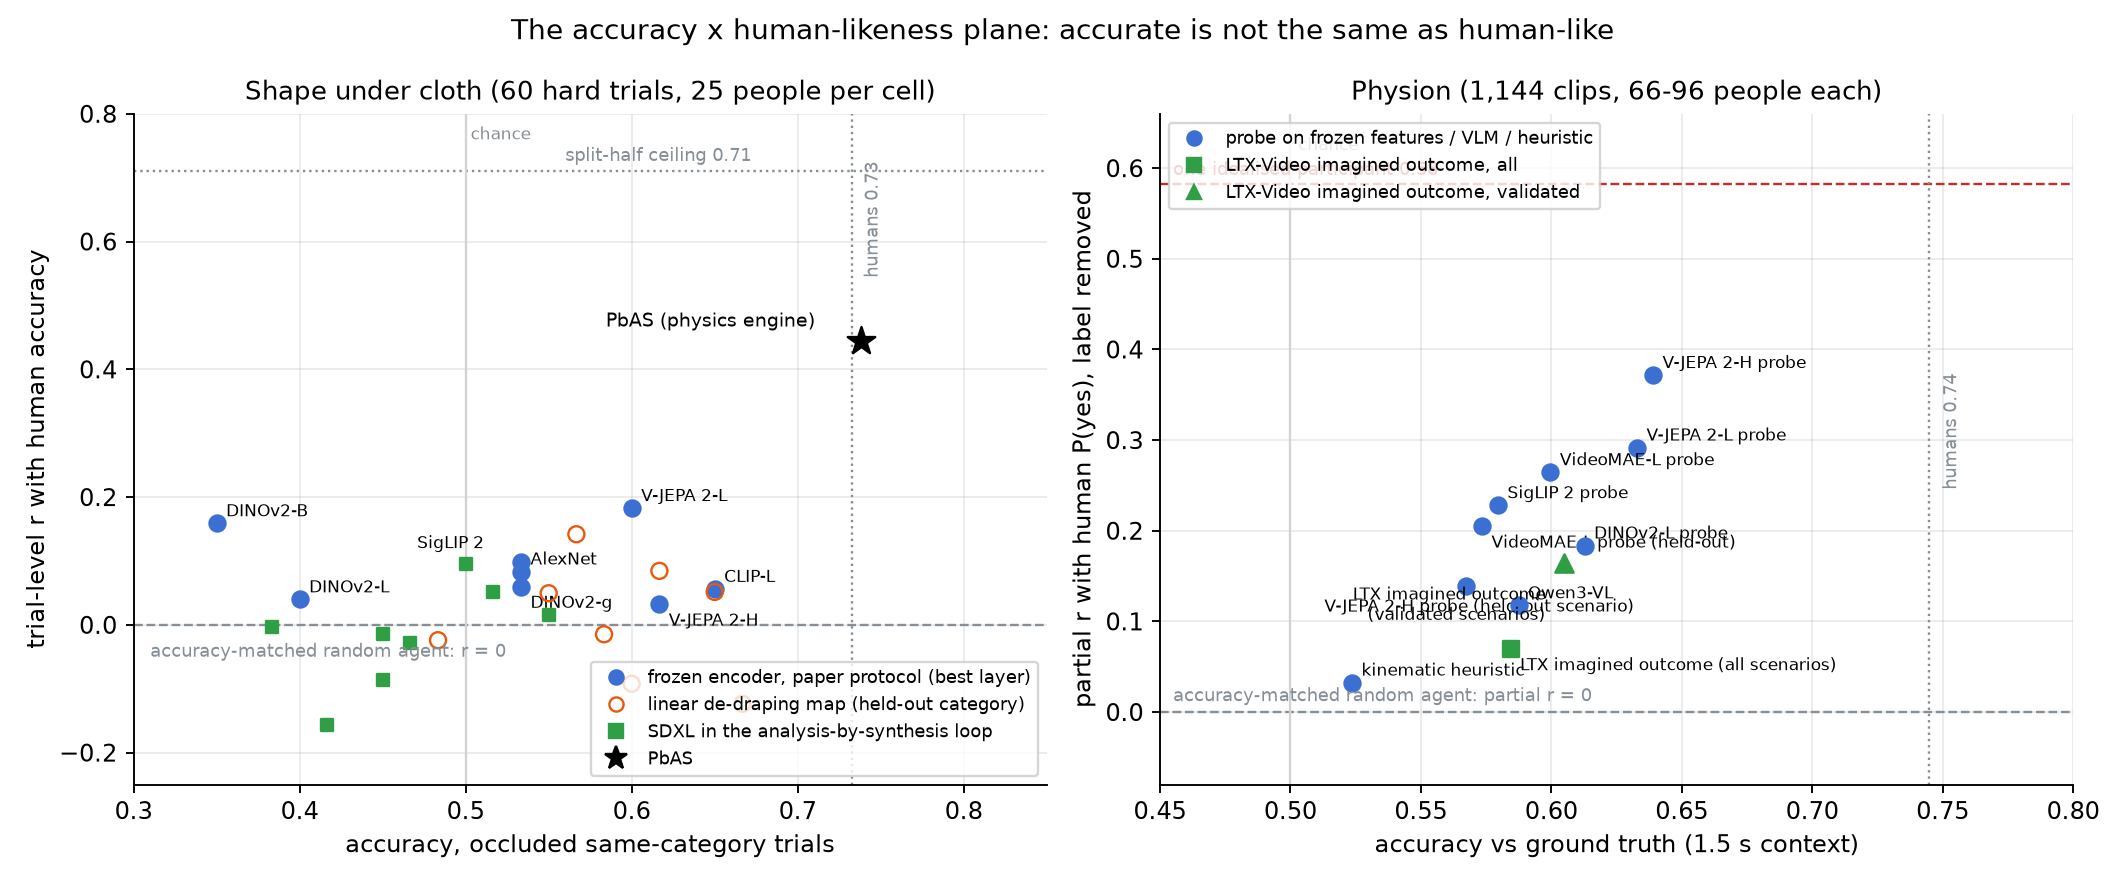
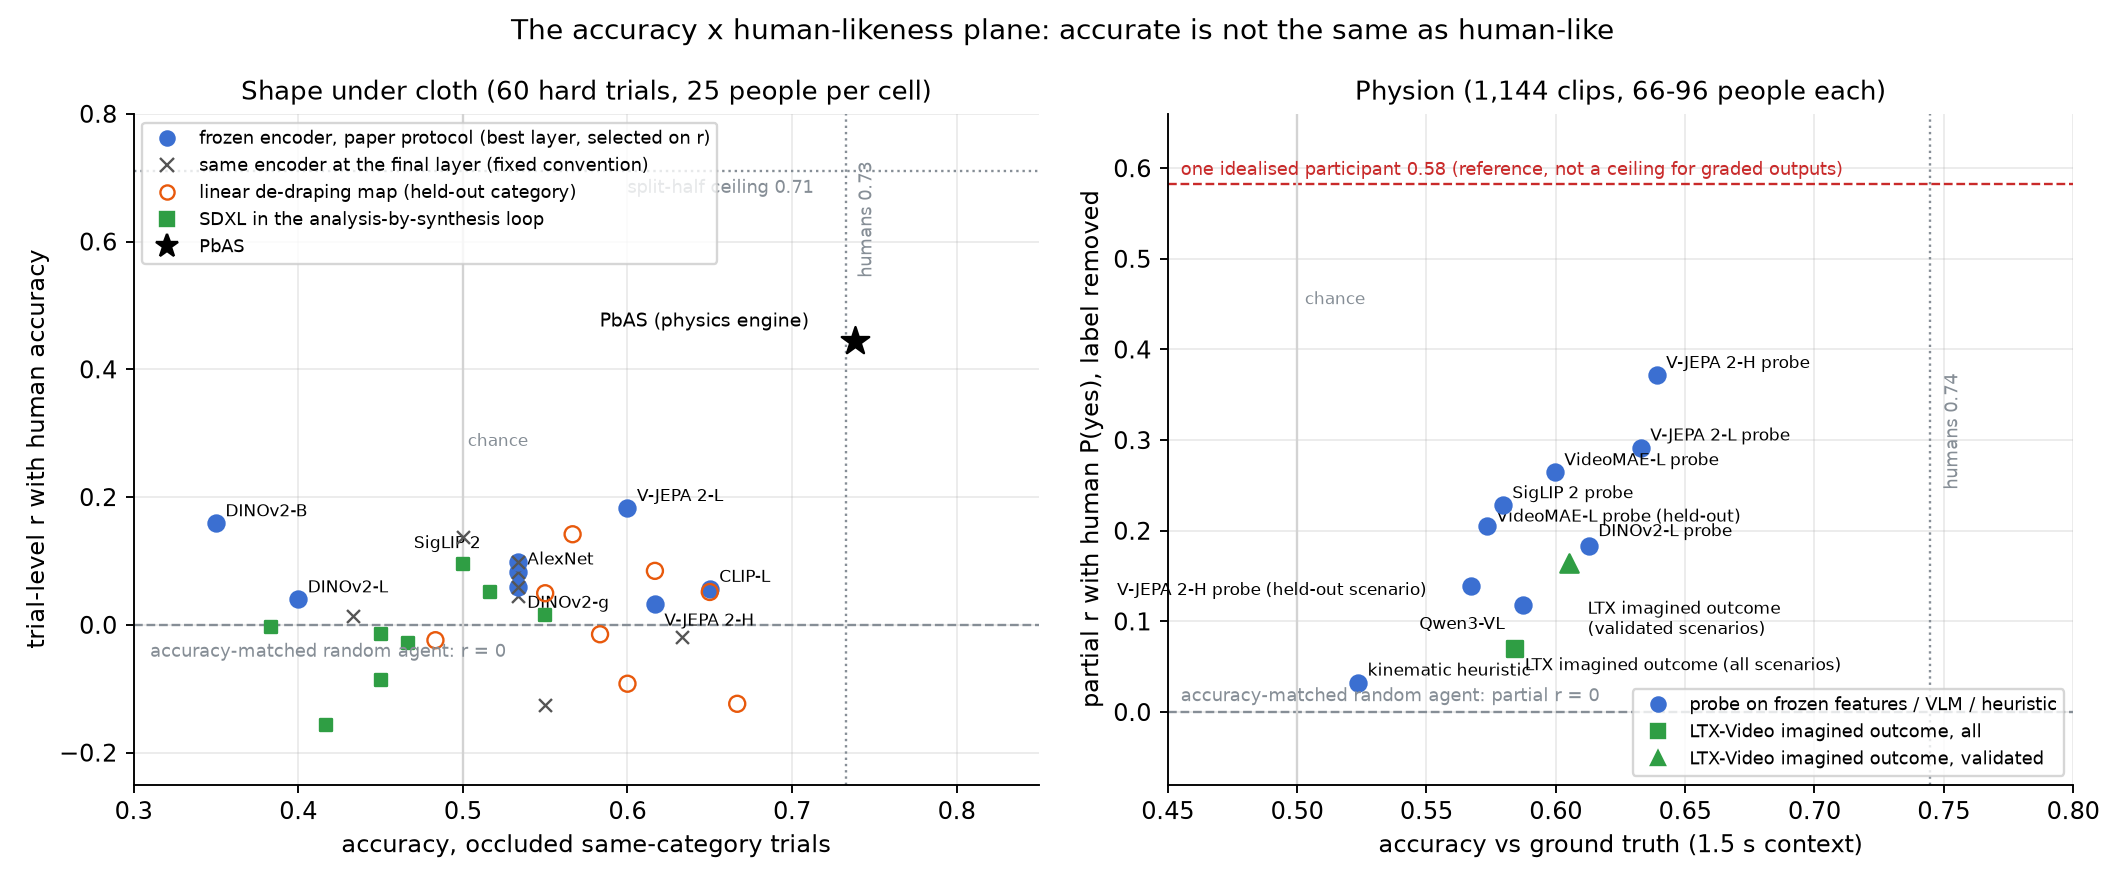
Plane figure: fixed-layer markers, participant reference labelled as reference

diff --git a/scripts/make_readme_figures.py b/scripts/make_readme_figures.py
@@ -138,31 +138,35 @@ def plane():
     p = json.load(open(RES / "physion" / "physion_results.json"))
     fig, (a, b) = plt.subplots(1, 2, figsize=(12.5, 5.2))
     off = {"dinog": (4, -9), "siglip2": (-44, 6), "vjepaH": (4, -9)}
+    fixed_layer = {"alexnet": "fc7", "vjepaL": "L24_grid", "vjepaH": "L32_grid"}
     for s_ in c["summary"]:
         m = s_["model"]; L = c["models"][m]["layers"][s_["best_layer"]]["occluded"]
         x, y = L["cells"]["same_category"], L["r_same"]["mean"]
         a.scatter(x, y, c=BLUE, s=46, zorder=3); a.annotate(NAMES[m], (x, y), fontsize=7, xytext=off.get(m, (4, 3)), textcoords="offset points")
+        F = c["models"][m]["layers"][fixed_layer.get(m, "final_pooled")]["occluded"]
+        a.scatter(F["cells"]["same_category"], F["r_same"]["mean"], marker="x", c="#555555", s=30, zorder=3, linewidths=1)
         dd = L["dedrape_loco"]; a.scatter(dd["cells"]["same_category"], dd["r_same"]["mean"], marker="o", facecolors="none", edgecolors=ORANGE, s=46, zorder=3)
         im = L["imagine_drape"]; a.scatter(im["cells"]["same_category"], im["r_same"]["mean"], marker="s", c=GREEN, s=30, zorder=3)
     pb = c["reference"]["PbAS"]["occluded"]["unlimited"]; hum = c["human"]["cells"]["occluded/unlimited"]["same_category"]
     ceil = c["human"]["ceiling"]["occluded"]["same_category"]["mean"]
     a.scatter(pb["cells"]["same_category"], pb["r_same"]["mean"], marker="*", c="k", s=150, zorder=4)
     a.annotate("PbAS (physics engine)", (pb["cells"]["same_category"], pb["r_same"]["mean"]), fontsize=8, xytext=(-108, 6), textcoords="offset points")
-    a.axhline(0, color=GREY, lw=1, ls="--"); a.axhline(ceil, color=GREY, lw=1, ls=":"); a.text(0.56, ceil + 0.015, f"split-half ceiling {ceil:.2f}", fontsize=7.5, color=GREY)
+    a.axhline(0, color=GREY, lw=1, ls="--"); a.axhline(ceil, color=GREY, lw=1, ls=":"); a.text(0.60, ceil - 0.035, f"split-half ceiling {ceil:.2f}", fontsize=7.5, color=GREY)
     a.axvline(hum, color=GREY, lw=1, ls=":"); a.text(hum + 0.007, 0.55, f"humans {hum:.2f}", fontsize=7.5, color=GREY, rotation=90)
-    a.axvline(0.5, color="lightgray", lw=1); a.text(0.503, 0.76, "chance", fontsize=7, color=GREY)
+    a.axvline(0.5, color="lightgray", lw=1); a.text(0.503, 0.28, "chance", fontsize=7, color=GREY)
     a.text(0.31, -0.05, "accuracy-matched random agent: r = 0", fontsize=7.5, color=GREY)
     a.set_xlim(0.3, 0.85); a.set_ylim(-0.25, 0.8); a.set_xlabel("accuracy, occluded same-category trials"); a.set_ylabel("trial-level r with human accuracy")
     a.set_title("Shape under cloth (60 hard trials, 25 people per cell)", fontsize=11)
     from matplotlib.lines import Line2D
-    a.legend(handles=[Line2D([], [], marker="o", color=BLUE, ls="", label="frozen encoder, paper protocol (best layer)"),
+    a.legend(handles=[Line2D([], [], marker="o", color=BLUE, ls="", label="frozen encoder, paper protocol (best layer, selected on r)"),
+                      Line2D([], [], marker="x", color="#555555", ls="", label="same encoder at the final layer (fixed convention)"),
                       Line2D([], [], marker="o", markerfacecolor="none", color=ORANGE, ls="", label="linear de-draping map (held-out category)"),
                       Line2D([], [], marker="s", color=GREEN, ls="", label="SDXL in the analysis-by-synthesis loop"),
-                      Line2D([], [], marker="*", color="k", ls="", markersize=10, label="PbAS")], fontsize=7.5, loc="lower right")
-    lab = {"vjepaH/last_grid/within": ("V-JEPA 2-H probe", (4, 3)), "vjepaH/last_grid/loso": ("V-JEPA 2-H probe (held-out scenario)", (-60, -11)),
+                      Line2D([], [], marker="*", color="k", ls="", markersize=10, label="PbAS")], fontsize=7.5, loc="upper left")
+    lab = {"vjepaH/last_grid/within": ("V-JEPA 2-H probe", (4, 3)), "vjepaH/last_grid/loso": ("V-JEPA 2-H probe (held-out scenario)", (-150, -4)),
            "vjepaL/last_slot/within": ("V-JEPA 2-L probe", (4, 3)), "vmaeL/last_grid/within": ("VideoMAE-L probe", (4, 3)),
-           "vmaeL/last_grid/loso": ("VideoMAE-L probe (held-out)", (4, -9)), "siglip2/last/within": ("SigLIP 2 probe", (4, 3)),
-           "dinoL/last_minus_first/within": ("DINOv2-L probe", (4, 3)), "vlm": ("Qwen3-VL", (4, 3)), "kinematic/within": ("kinematic heuristic", (4, 3))}
+           "vmaeL/last_grid/loso": ("VideoMAE-L probe (held-out)", (4, 2)), "siglip2/last/within": ("SigLIP 2 probe", (4, 3)),
+           "dinoL/last_minus_first/within": ("DINOv2-L probe", (4, 4)), "vlm": ("Qwen3-VL", (-44, -10)), "kinematic/within": ("kinematic heuristic", (4, 3))}
     for k, (l, o) in lab.items():
         r_ = p["readouts"][k]["all"]; b.scatter(r_["accuracy"], r_["partial_r_given_label"], c=BLUE, s=46, zorder=3)
         b.annotate(l, (r_["accuracy"], r_["partial_r_given_label"]), fontsize=7, xytext=o, textcoords="offset points")
@@ -170,18 +174,18 @@ def plane():
     b.scatter(g["all"]["accuracy"], g["all"]["partial_r_given_label"], marker="s", c=GREEN, s=46, zorder=3)
     b.annotate("LTX imagined outcome (all scenarios)", (g["all"]["accuracy"], g["all"]["partial_r_given_label"]), fontsize=7, xytext=(4, -9), textcoords="offset points")
     b.scatter(g["primary"]["accuracy"], g["primary"]["partial_r_given_label"], marker="^", c=GREEN, s=60, zorder=3)
-    b.annotate("LTX imagined outcome\n(validated scenarios)", (g["primary"]["accuracy"], g["primary"]["partial_r_given_label"]), fontsize=7, xytext=(-8, -24), textcoords="offset points", ha="right")
+    b.annotate("LTX imagined outcome\n(validated scenarios)", (g["primary"]["accuracy"], g["primary"]["partial_r_given_label"]), fontsize=7, xytext=(8, -30), textcoords="offset points", ha="left")
     sp, _, _ = single_participant_ceiling()
-    b.axhline(sp, color=RED, lw=1, ls="--"); b.text(0.455, sp + 0.01, f"one idealised participant {sp:.2f}", fontsize=7.5, color=RED)
+    b.axhline(sp, color=RED, lw=1, ls="--"); b.text(0.455, sp + 0.01, f"one idealised participant {sp:.2f} (reference, not a ceiling for graded outputs)", fontsize=7.5, color=RED)
     b.axhline(0, color=GREY, lw=1, ls="--"); b.text(0.455, 0.012, "accuracy-matched random agent: partial r = 0", fontsize=7.5, color=GREY)
     hum_p = np.mean(list(p["human"]["accuracy_by_scenario"].values()))
     b.axvline(hum_p, color=GREY, lw=1, ls=":"); b.text(hum_p + 0.005, 0.25, f"humans {hum_p:.2f}", fontsize=7.5, color=GREY, rotation=90)
-    b.axvline(0.5, color="lightgray", lw=1); b.text(0.503, 0.62, "chance", fontsize=7, color=GREY)
+    b.axvline(0.5, color="lightgray", lw=1); b.text(0.503, 0.45, "chance", fontsize=7, color=GREY)
     b.set_xlim(0.45, 0.8); b.set_ylim(-0.08, 0.66); b.set_xlabel("accuracy vs ground truth (1.5 s context)"); b.set_ylabel("partial r with human P(yes), label removed")
     b.set_title("Physion (1,144 clips, 66-96 people each)", fontsize=11)
     b.legend(handles=[Line2D([], [], marker="o", color=BLUE, ls="", label="probe on frozen features / VLM / heuristic"),
                       Line2D([], [], marker="s", color=GREEN, ls="", label="LTX-Video imagined outcome, all"),
-                      Line2D([], [], marker="^", color=GREEN, ls="", label="LTX-Video imagined outcome, validated")], fontsize=7.5, loc="upper left")
+                      Line2D([], [], marker="^", color=GREEN, ls="", label="LTX-Video imagined outcome, validated")], fontsize=7.5, loc="lower right")
     for ax in (a, b):
         ax.grid(alpha=0.25)
     fig.suptitle("The accuracy x human-likeness plane: accurate is not the same as human-like", fontsize=12)
